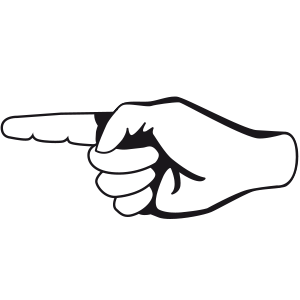
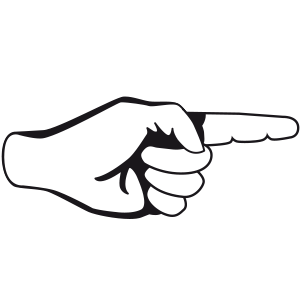
x

Changed region(s): [[0.0, 0.3, 1.0, 0.75]]

diff --git a/historisches/geographie/verkoppelung.html b/historisches/geographie/verkoppelung.html
@@ -114,7 +114,7 @@
 				<div class="row">
 					<div class="col-6">
             <p>
-              Die Verkoppelung in der Gemarkung Kühsen von 1774 bis 1778 ist m. E. ein ähnlicher Meilenstein in der Geschichte unseres Dorfes, wie die urkundliche Erwähnung im Zehntregister von 1230 und die Flurbereinigung, die im 20. Jahrhundert erfolgte. Jedenfalls wurden zu diesen Anlässen umfangreiche Bestandsaufnahmen “behördlicherseits“ veranlasst, deren Ergebnisse über die bloßen Zahlenkolonnen hinaus ein beredtes Zeugnis von den Lebensum-ständen ihrer Zeit ablegen. Als Vorläufer der späteren Flurbereinigung ging es bei der Verkoppelung um die Nutzung aller Flächen der Gemarkung, ob Acker, Wiese, Wald oder Moor, oftmals im Allgemeinbesitz und die Neuverteilung verstreut liegender Nutzflächen. Ein wesentlicher Punkt war hier die Bewer-tung der Flächen nach ihrem Ertrag. Als weitergehende Literatur sei die Seite: <a href="https://www.kreis-rz.de/">www.kreis-rz.de</a>Findbuch Verkoppelung im Herzogtum Lauenburg empfohlen.
+              Die Verkoppelung in der Gemarkung Kühsen von 1774 bis 1778 ist m. E. ein ähnlicher Meilenstein in der Geschichte unseres Dorfes, wie die urkundliche Erwähnung im Zehntregister von 1230 und die Flurbereinigung, die im 20. Jahrhundert erfolgte. Jedenfalls wurden zu diesen Anlässen umfangreiche Bestandsaufnahmen “behördlicherseits“ veranlasst, deren Ergebnisse über die bloßen Zahlenkolonnen hinaus ein beredtes Zeugnis von den Lebensum-ständen ihrer Zeit ablegen. Als Vorläufer der späteren Flurbereinigung ging es bei der Verkoppelung um die Nutzung aller Flächen der Gemarkung, ob Acker, Wiese, Wald oder Moor, oftmals im Allgemeinbesitz und die Neuverteilung verstreut liegender Nutzflächen. Ein wesentlicher Punkt war hier die Bewer-tung der Flächen nach ihrem Ertrag. Als weitergehende Literatur sei die Seite: <a href="https://www.kreis-rz.de/">www.kreis-rz.de</a> Findbuch Verkoppelung im Herzogtum Lauenburg empfohlen.
             </p>
             <p>
               Die nachfolgend abgebildeten (Original(?)-) Dokumente wurden mir 1990 von Herrn Rickert übergeben mit der Bitte, sie angemessen zu würdigen. Das will ich hiermit tun:  Alle Indizien deuten darauf hin, dass es sich hierbei um einen kleinen Teil der für die Verkoppelung unerlässlichen Bestandsaufnahme des individuellen und gemeinschaftlichen Grundbesitzes handelt.

diff --git a/historisches/schulwesen/nachrichten_aus_der_schule.html b/historisches/schulwesen/nachrichten_aus_der_schule.html
@@ -110,6 +110,13 @@
 		<div class="container article">
 			<div class="row">
 				<div class="col-6">
+					<div class="function_hint">
+						<img class="hint_finger" src="/kuehsen-dok/src/img/piktogramme300x300/04_300px.png" alt="">
+						<div class="hint_txt">
+							<span style="font-weight: bold;">Funktion: <br></span>
+							<span>Mit einem Doppelklick/ Doppeltippen zwischen Textansicht und Orinaldokument umschalten.</span>
+						</div>
+					</div>
 					<div class="er" ondblclick="er(this)">
 						<div class="er_txt">
 							<span class="er_aut">Erwin Rickert - Chronik Kühsen</span>
@@ -130,6 +137,13 @@
 			</div>
       <div class="row">
         <div class="col-6">
+					<div class="function_hint">
+						<img class="hint_finger" src="/kuehsen-dok/src/img/piktogramme300x300/04_300px.png" alt="">
+						<div class="hint_txt">
+							<span style="font-weight: bold;">Funktion: <br></span>
+							<span>Mit einem Doppelklick/ Doppeltippen das Bild umdrehen.</span>
+						</div>
+					</div>
           <div class="flip-card">
             <div class="flip-card-inner" ondblclick="flip(this)">
               <div class="flip-card-front">

diff --git a/historisches/k_erscheint/moorleichenfund.html b/historisches/k_erscheint/moorleichenfund.html
@@ -121,18 +121,21 @@
 					<p></p>
 				</div>
 			</div>
-			<!-- <div class="row">
-				<div class="col-6">
-					<figure>
-						<img src="/kuehsen-dok/src/img/k_erscheint/moorleiche_presse.jpg" alt="Presseartikel vom Moorleichenfund in Kühsen. Quelle: Lübecker Nachrichten.">
-						<figcaption>Presseartikel vom Moorleichenfund in Kühsen. Quelle: Lübecker Nachrichten.</figcaption>
-					</figure>
-				</div>
-			</div> -->
 			<div class="row">
 				<div class="col-6" id="press">
 					<h1>Presseberichte</h1>
 					<h1>der Lübecker Nachrichten</h1>
+				</div>
+			</div>
+			<div class="row">
+				<div class="col-6">
+					<div class="function_hint">
+						<img class="hint_finger" src="/kuehsen-dok/src/img/piktogramme300x300/04_300px.png" alt="">
+						<div class="hint_txt">
+							<span style="font-weight: bold;">Funktion: <br></span>
+							<span>Mit einem Doppelklick/ Doppeltippen zwischen Textansicht und Orinaldokument umschalten.</span>
+						</div>
+					</div>
 				</div>
 			</div>
 			<div class="row" ondblclick="er(this)">

diff --git a/src/css/styles.css b/src/css/styles.css
@@ -350,11 +350,12 @@ figure {
   display: none;
 }
 
-.er_txt {
-  position: relative;
+.er {
+  cursor: crosshair;
 }
 
 .er .er_txt {
+  position: relative;
   padding: 0.5rem;
   font-family: "ToxTypewriter";
   background:
@@ -383,6 +384,31 @@ figure {
   position: absolute;
   bottom: -0.5rem;
   z-index: -1;
+}
+
+.function_hint {
+  position: relative;
+  margin-bottom: 2rem;
+}
+.hint_finger {
+  position: absolute;
+  bottom: 0;
+  left: 0;
+  width: 80px;
+  animation: finger_rotation;
+  animation-duration: 2s;
+  animation-iteration-count: infinite;
+  margin-right: 10px;
+}
+@keyframes finger_rotation {
+  0% {transform: rotate(0deg);}
+  50% {transform: rotate(60deg);}
+  100% {transform: rotate(0deg);}
+}
+.hint_txt {
+  vertical-align: middle;
+  margin-left: 90px;
+  text-align: left;
 }
 
 .ln_txt {
@@ -1861,6 +1887,7 @@ p {
   width: 100%;
   padding-bottom: 73.5%;
   perspective: 2500px; /* Remove this if you don't want the 3D effect */
+  cursor: crosshair;
 }
 .flip-card img{
   max-width: 100%;

diff --git a/historisches/arbeit_alltag/weihnachten1860.html b/historisches/arbeit_alltag/weihnachten1860.html
@@ -111,6 +111,13 @@
 			<div class="container article">
 				<div class="row">
 					<div class="col-6">
+						<div class="function_hint">
+							<img class="hint_finger" src="/kuehsen-dok/src/img/piktogramme300x300/04_300px.png" alt="">
+							<div class="hint_txt">
+								<span style="font-weight: bold;">Funktion: <br></span>
+								<span>Mit einem Doppelklick/ Doppeltippen zwischen Textansicht und Orinaldokument umschalten.</span>
+							</div>
+						</div>
             <div class="er" ondblclick="er(this)">
               <div class="er_txt">
                 <span class="er_aut">Erwin Rickert - Chronik Kühsen</span>

diff --git a/historisches/geographie/flurnamen.html b/historisches/geographie/flurnamen.html
@@ -118,6 +118,13 @@
         </div>
 				<div class="row">
 					<div class="col-6">
+            <div class="function_hint">
+  						<img class="hint_finger" src="/kuehsen-dok/src/img/piktogramme300x300/04_300px.png" alt="">
+  						<div class="hint_txt">
+  							<span style="font-weight: bold;">Funktion: <br></span>
+  							<span>Mit einem Doppelklick/ Doppeltippen zwischen Textansicht und Orinaldokument umschalten.</span>
+  						</div>
+  					</div>
             <div class="er" id="er" ondblclick="er(this)">
 							<div class="er_txt" id="er_txt">
 								<span class="er_aut">Erwin Rickert - Chronik Kühsen</span>

diff --git a/index.html b/index.html
@@ -90,6 +90,13 @@
 			<div class="container article">
 				<div class="row">
 					<div class="col-4">
+						<div class="function_hint">
+							<img class="hint_finger" src="./src/img/piktogramme300x300/04_300px.png" alt="">
+							<div class="hint_txt">
+								<span style="font-weight: bold;">Funktion: <br></span>
+								<span>Mit einem Doppelklick/ Doppeltippen zwischen Textansicht und Orinaldokument umschalten.</span>
+							</div>
+						</div>
 						<div class="er" id="er" ondblclick="er(this)">
 							<div class="er_txt" id="er_txt">
 								<span class="er_aut">Erwin Rickert - Chronik Kühsen</span>

diff --git a/historisches/feuerschutzwesen/feuerherren.html b/historisches/feuerschutzwesen/feuerherren.html
@@ -112,6 +112,13 @@
 			<div class="container article">
 				<div class="row">
 					<div class="col-6">
+						<div class="function_hint">
+							<img class="hint_finger" src="/kuehsen-dok/src/img/piktogramme300x300/04_300px.png" alt="">
+							<div class="hint_txt">
+								<span style="font-weight: bold;">Funktion: <br></span>
+								<span>Mit einem Doppelklick/ Doppeltippen zwischen Textansicht und Orinaldokument umschalten.</span>
+							</div>
+						</div>
 						<div class="er" ondblclick="er(this)">
 							<div class="er_txt">
 								<span class="er_aut">Erwin Rickert - Chronik Kühsen</span>

diff --git a/historisches/feuerschutzwesen/brand1885.html b/historisches/feuerschutzwesen/brand1885.html
@@ -117,6 +117,13 @@
 				</div>
 				<div class="row">
 					<div class="col-6">
+						<div class="function_hint">
+							<img class="hint_finger" src="/kuehsen-dok/src/img/piktogramme300x300/04_300px.png" alt="">
+							<div class="hint_txt">
+								<span style="font-weight: bold;">Funktion: <br></span>
+								<span>Mit einem Doppelklick/ Doppeltippen zwischen Textansicht und Orinaldokument umschalten.</span>
+							</div>
+						</div>
 						<div class="er" ondblclick="er(this)">
 							<div class="er_txt">
 								<span class="er_aut">Erwin Rickert - Chronik Kühsen</span>
